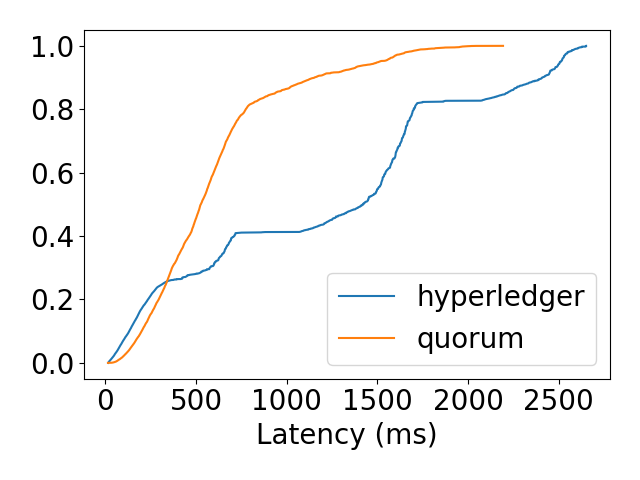
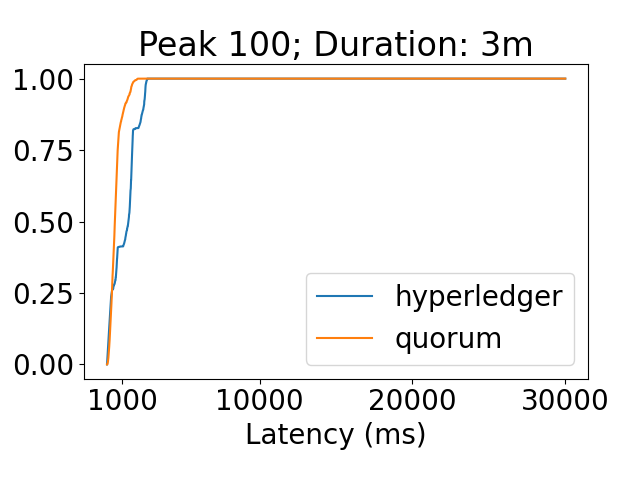
Update CDFs with better xaxis

diff --git a/misc-scripts/results_viewers/aviation_results_plotters.py b/misc-scripts/results_viewers/aviation_results_plotters.py
@@ -315,8 +315,35 @@ def plot_latency_cdfs_experiment(experiment):
         current_count += all_hyperledger_things[i]
         hyperledger_cdfs.append(current_count)
 
+    # Fix the counts
+    if hyperledger_keys[-1] > quorum_keys[-1]:
+        quorum_keys.append(hyperledger_keys[-1])
+        quorum_cdfs.append(1)
+    elif hyperledger_keys[-1] < quorum_keys[-1]:
+        hyperledger_keys.append(quorum_keys[-1])
+        hyperledger_cdfs.append(1)
+
+    # 100 fix
+    if experiment in ["100-1m", "100-2m", "100-3m"]:
+        quorum_keys.append(25000)
+        quorum_cdfs.append(1)
+
+        hyperledger_keys.append(25000)
+        hyperledger_cdfs.append(1)
+
+    if hyperledger_keys[-1] < 30000:
+        hyperledger_keys.append(30000)
+        hyperledger_cdfs.append(1)
+
+    if quorum_keys[-1] < 30000:
+        quorum_keys.append(30000)
+        quorum_cdfs.append(1)
+
+
+    plt.xticks([1000, 10000, 20000, 30000])
     plt.plot(hyperledger_keys, hyperledger_cdfs, label='hyperledger')
     plt.plot(quorum_keys, quorum_cdfs, label='quorum')
+    plt.title("Peak {}; Duration: {}".format(experiment.split("-")[0], experiment.split("-")[1]))
     plt.xlabel("Latency (ms)")
     plt.tight_layout()
     plt.legend(loc='lower right')
